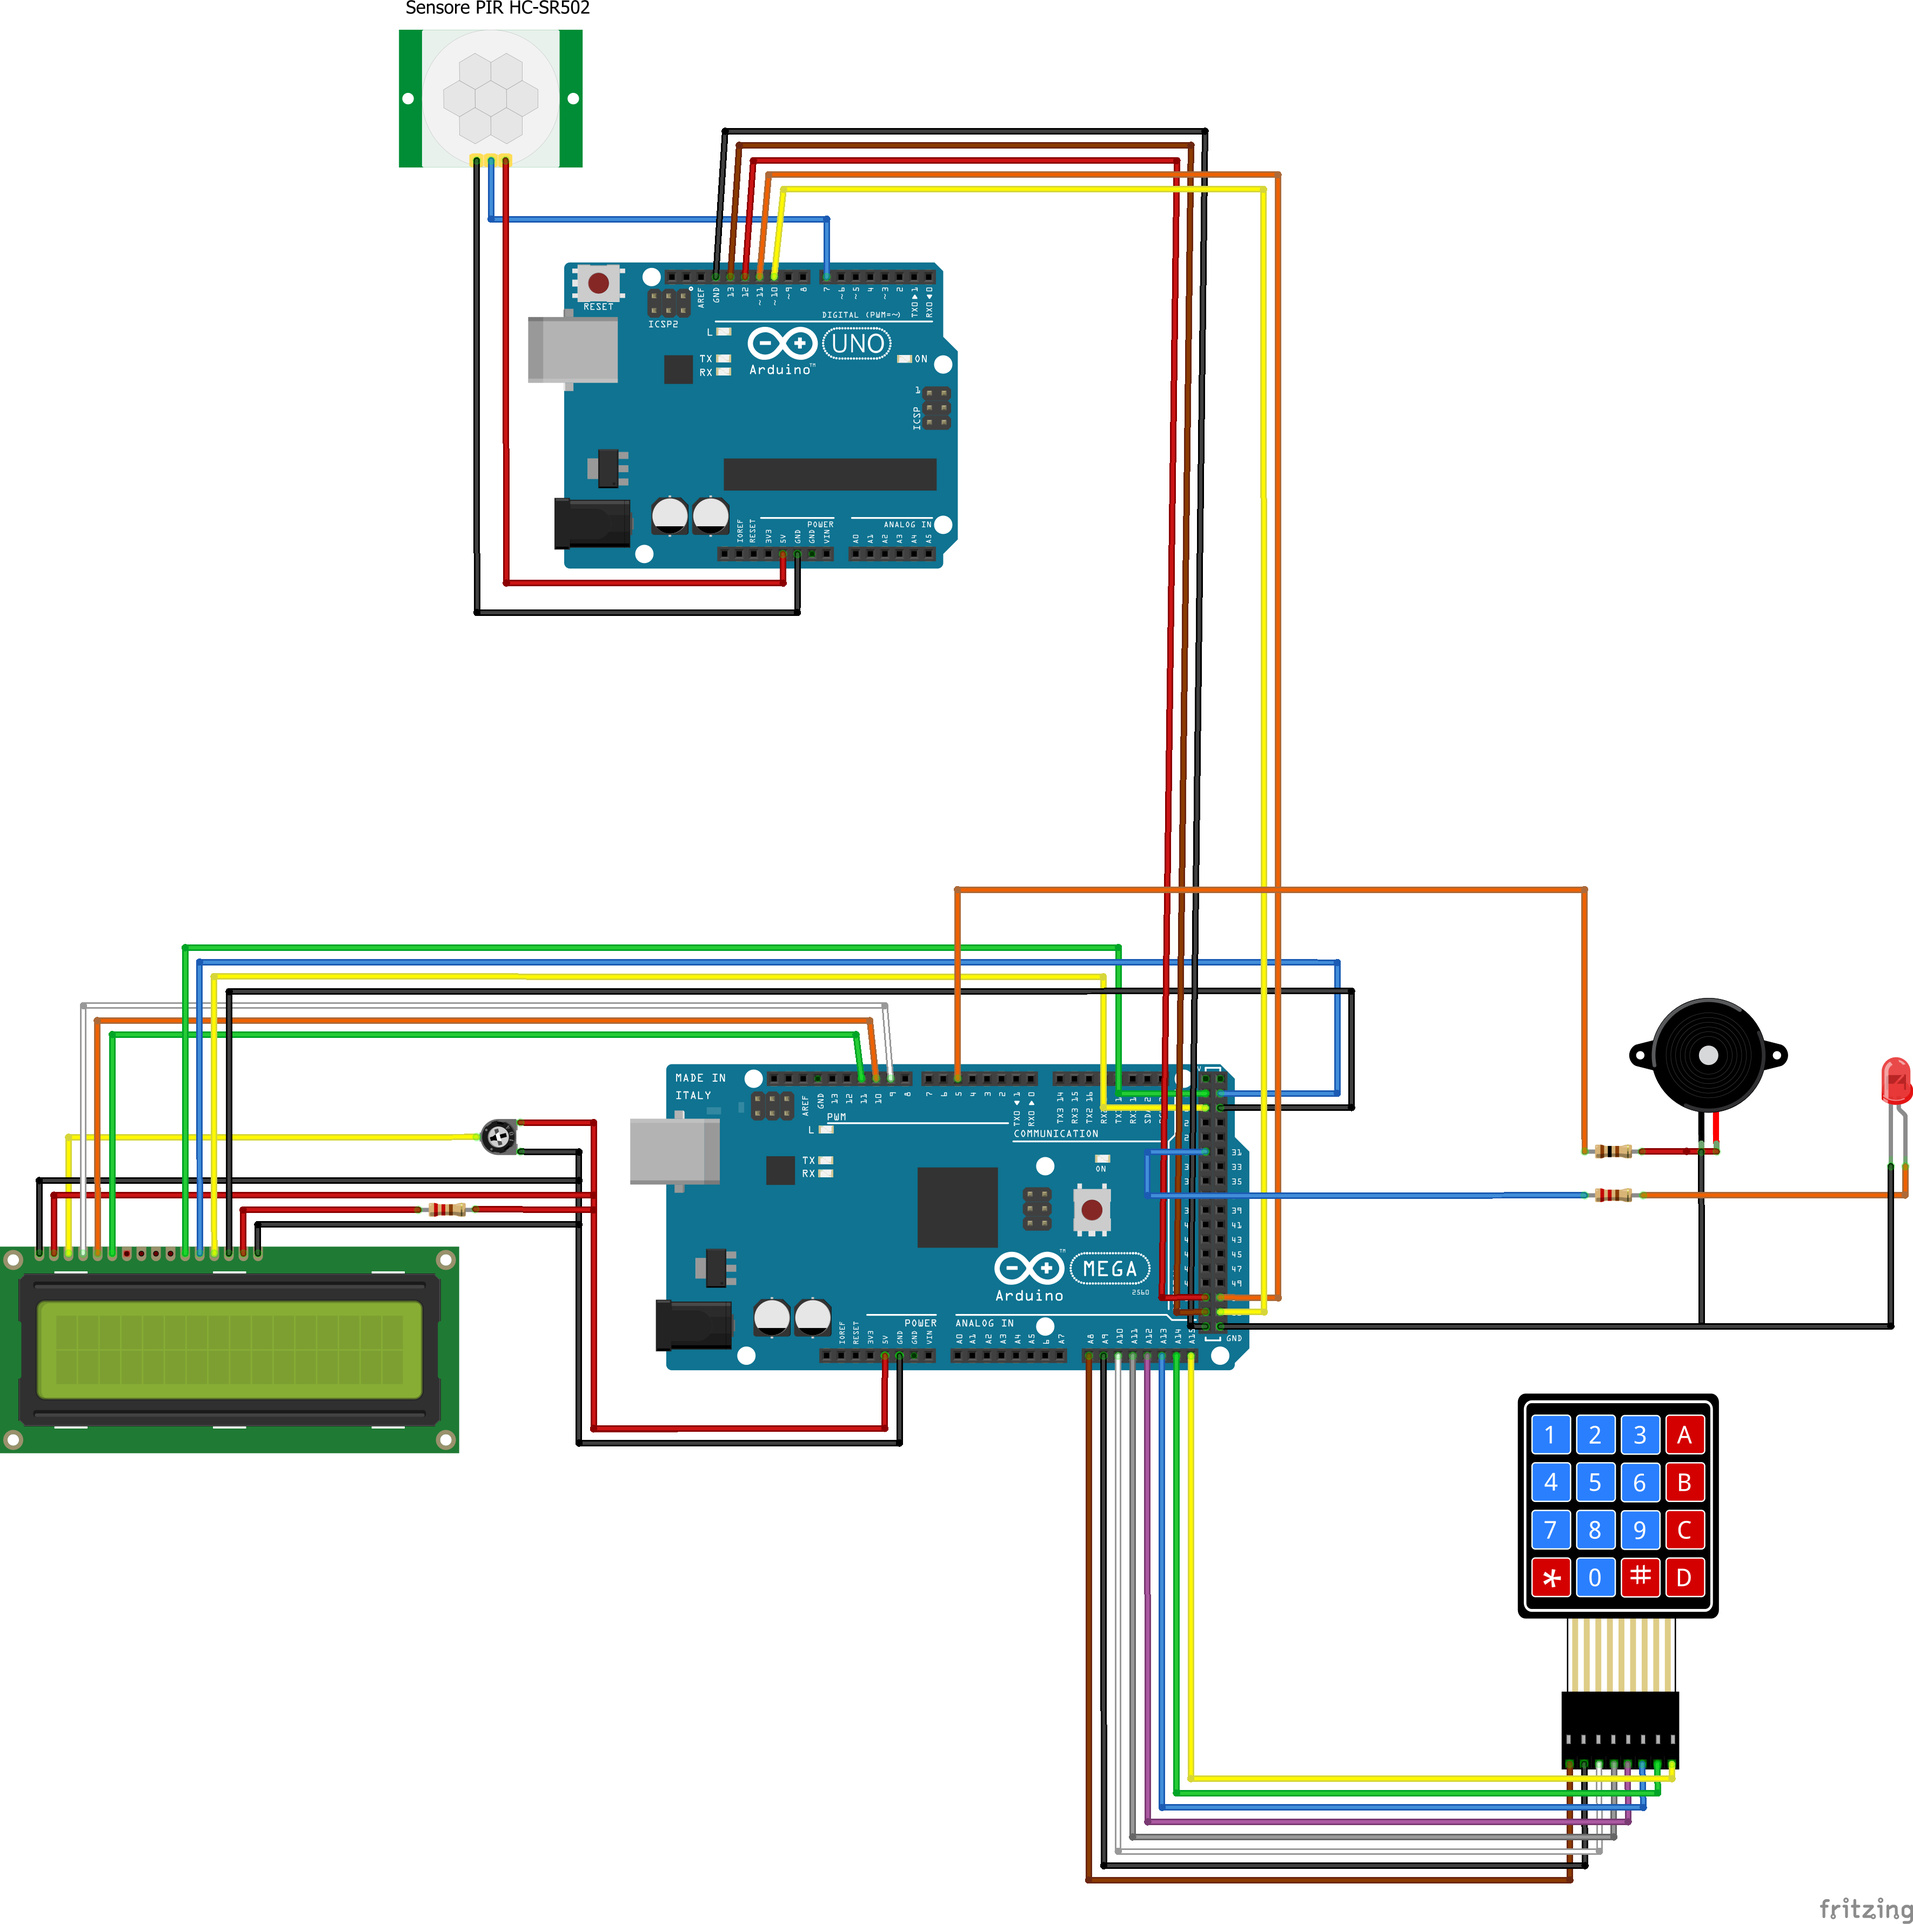
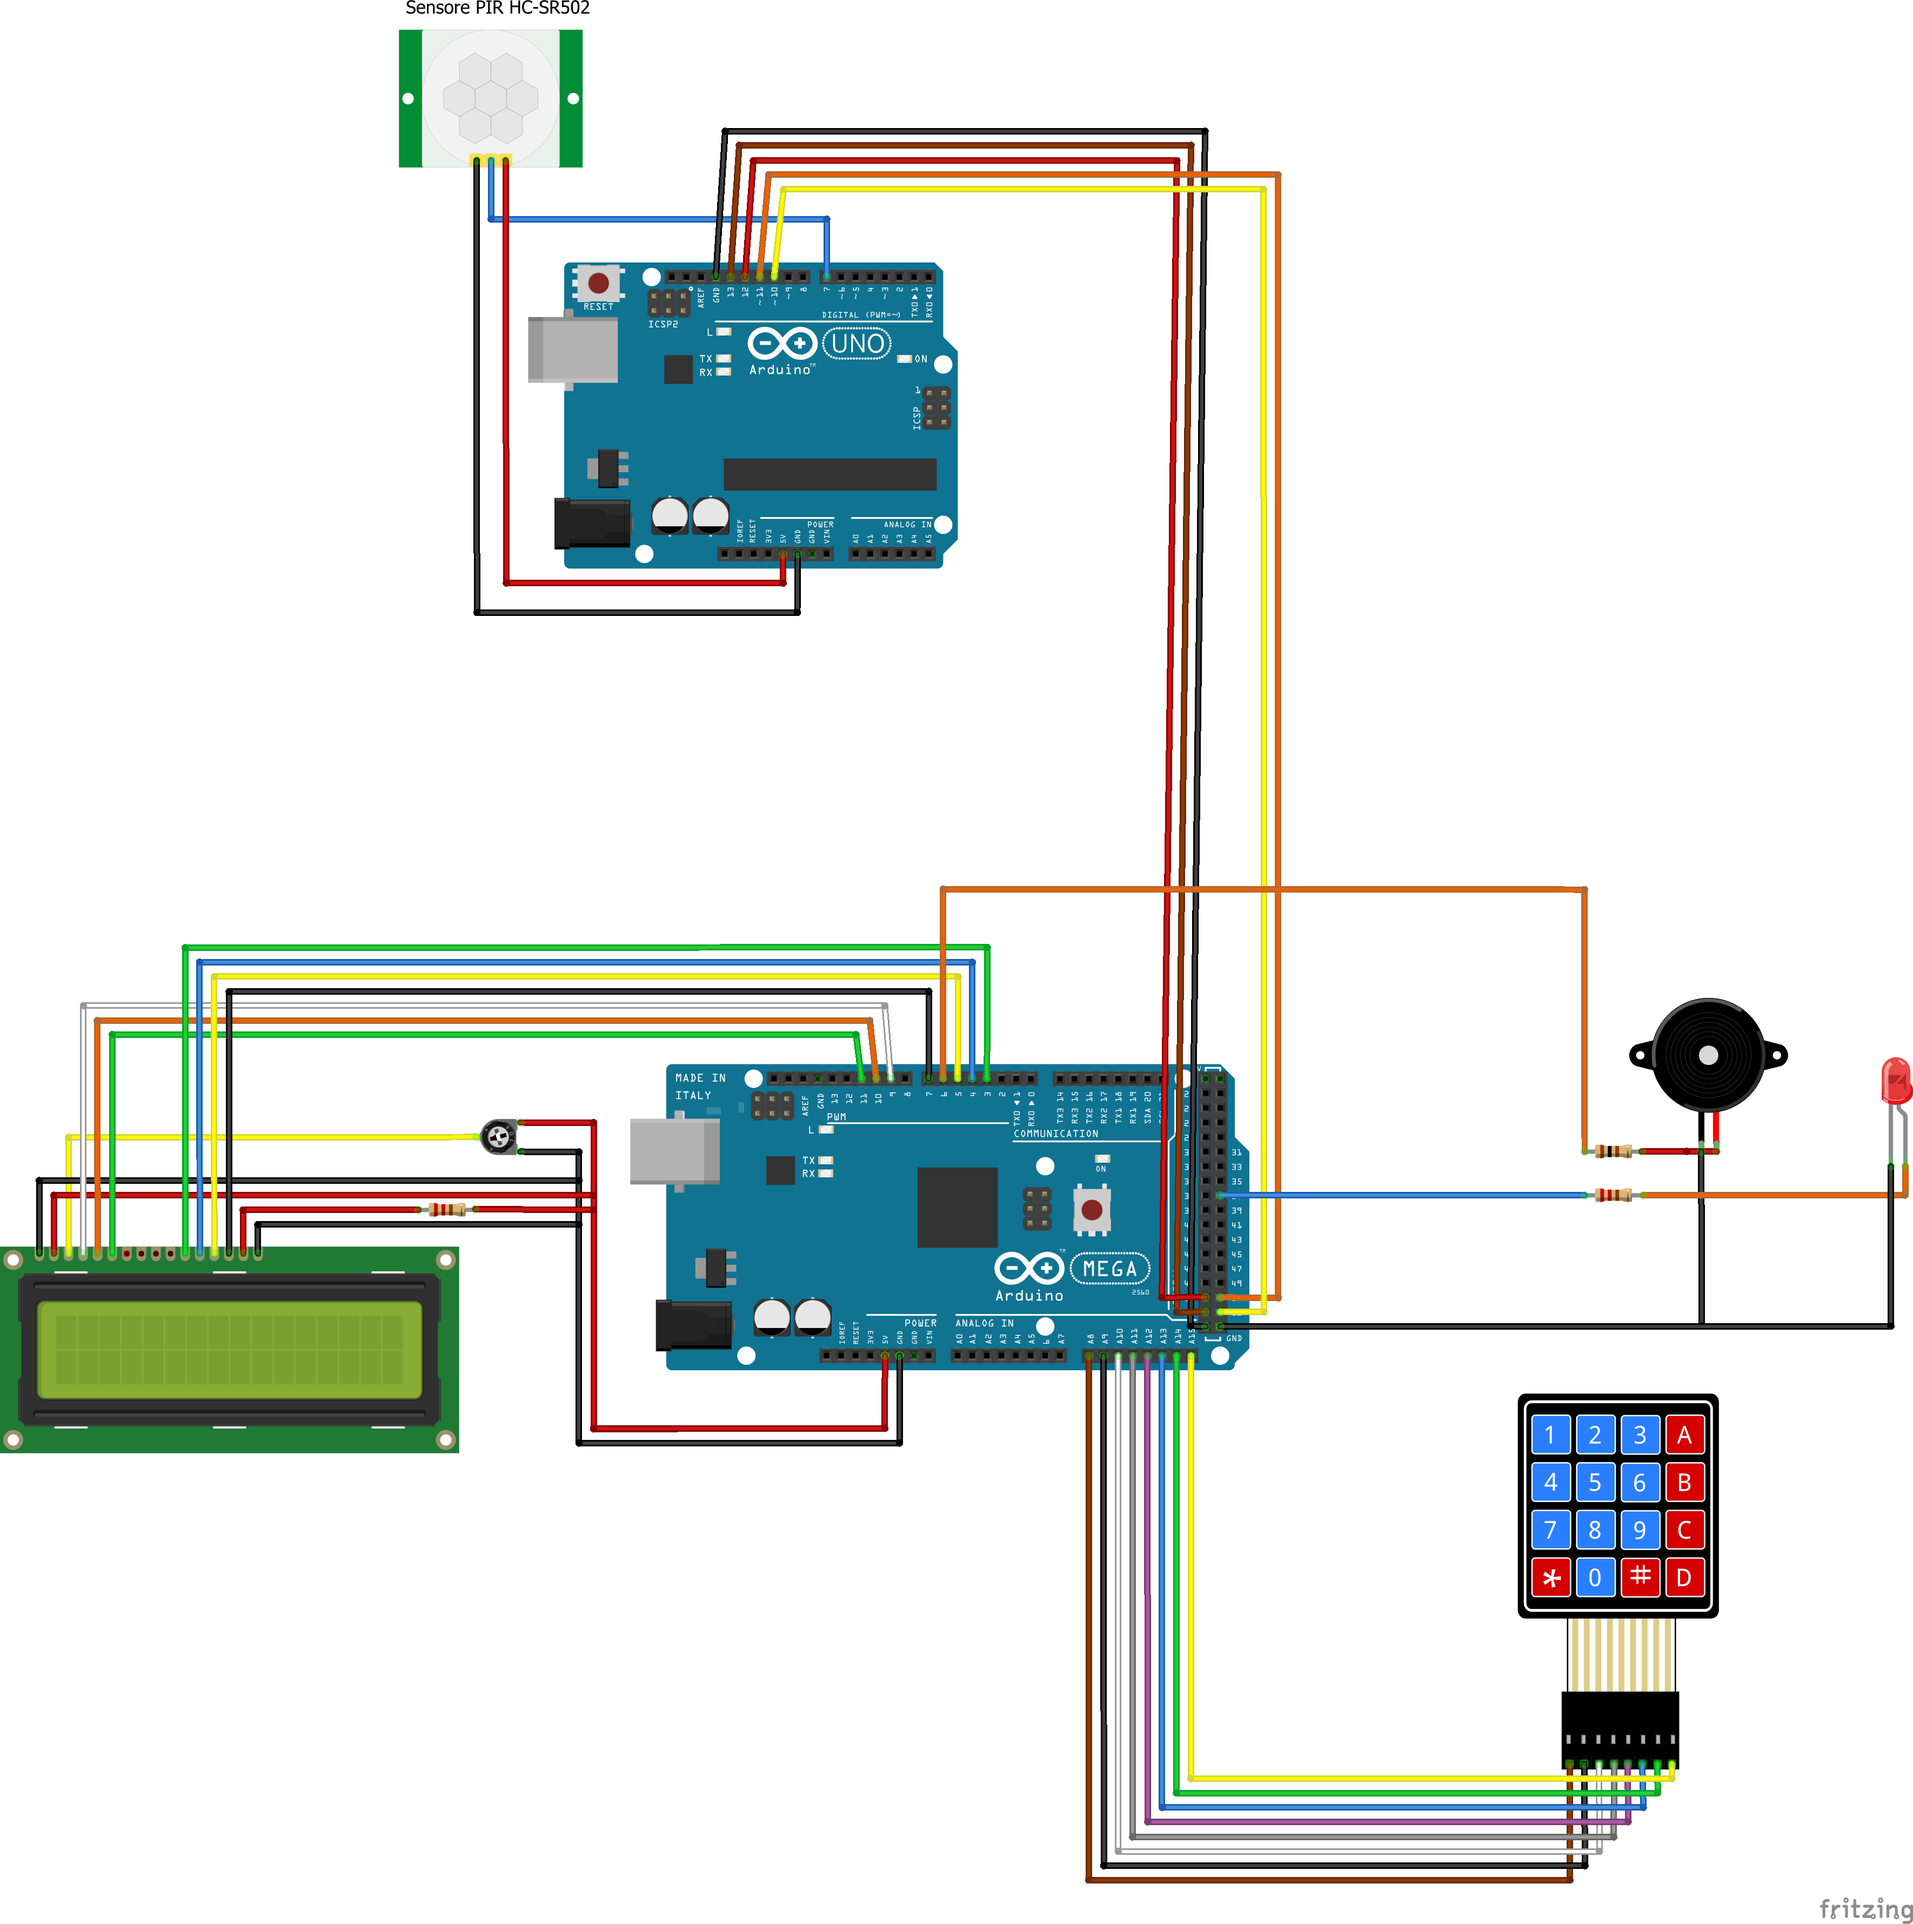
debugged and fixed pins
-updated diagram to repesent present config
-found and marked the line that was causing lcd problems

Changed region(s): [[0.4661, 0.4676, 0.7147, 0.6234]]

diff --git a/harkkaMEGA/harkkaMEGA/main.c b/harkkaMEGA/harkkaMEGA/main.c
@@ -73,13 +73,13 @@ FILE uart_output = FDEV_SETUP_STREAM(USART_Transmit, NULL, _FDEV_SETUP_WRITE);
 FILE uart_input = FDEV_SETUP_STREAM(NULL, USART_Receive, _FDEV_SETUP_READ);
 // ----------------------------------
 
-const char message1_connection_established[] = "SPI OK";
-const char message2_movement_detected[] = "Movement found";
-const char message3_give_password[] = "Type password";
-const char message4_1_password_correct[] = "Password given,";
-const char message4_2_password_correct[] = "alarm reset";
-const char message5_1_password_time_out[] = "Password time-";
-const char message5_2_password_time_out[] = "out error";
+const char message1_connection_established[20] = "SPI OK";
+const char message2_movement_detected[20] = "Movement found";
+const char message3_give_password[20] = "Type password";
+const char message4_1_password_correct[20] = "Password given,";
+const char message4_2_password_correct[20] = "alarm reset";
+const char message5_1_password_time_out[20] = "Password time-";
+const char message5_2_password_time_out[20] = "out error";
 
 int8_t g_state = 0;
 uint16_t memory_address_max = 32; //for EEPROM, NOTE: not actual max, just there is no need for more
@@ -142,7 +142,7 @@ int main(void)
 				*/
 				break;
 		}
-		
+		_delay_ms(40);
 		display_message(0, 0);
     }
 }
@@ -155,6 +155,9 @@ void display_message(int message_number, int password_length)
 	lcd_clrscr();
 	switch (message_number)
 	{
+		case 0:
+			lcd_puts("testi");
+			break;
 		case 1:
 			lcd_puts(message1_connection_established);
 			break;
@@ -279,19 +282,23 @@ char *EEPROM_read()
 
 void init_pwm_counter() {
 	/* Based on exercise 7 solution. 
-	   Setting digital pin 5 as PWM output. OC3A output is on the pin 5.*/
-	DDRE |= (1 << PE3); 
+	   Setting digital pin 6 as PWM output. OC4A output is on the pin 6.*/
+	DDRH |= (1 << PH3); 
 	/* set up the 16-bit timer/counter3, mode 9 */
 	TCCR3B = 0; // reset timer/counter 3
 	TCNT3  = 0;
-	TCCR3A |= (1 << 6); // set compare output mode to toggle
+	
+	/************************************************************************/
+	/* this is causing lcd data some errors resulting in a currupted output */
+	/************************************************************************/
+	//TCCR3A |= (1 << 6); // set compare output mode to toggle
 	
 	// mode 9 phase correct
 	TCCR3A |= (1 << 0); // set register A WGM[1:0] bits
 	TCCR3B |= (1 << 4); // set register B WBM[3:2] bits
 
 	TIMSK3 |= (1 << 1); // enable compare match A interrupt
-	OCR3A = 8000; // Should be about 1000 hz.
+	OCR4A = 8000; // Should be about 1000 hz.
 }
 
 void turn_off_pwm_counter() {

diff --git a/harkkaMEGA/harkkaMEGA/lcd.h b/harkkaMEGA/harkkaMEGA/lcd.h
@@ -131,28 +131,28 @@
 #define LCD_PORT         PORTA        /**< port for the LCD lines   */
 #endif
 #ifndef LCD_DATA0_PORT
-#define LCD_DATA0_PORT   PORTA     /**< port for 4bit data bit 0 */
+#define LCD_DATA0_PORT   PORTE     /**< port for 4bit data bit 0 */
 #endif
 #ifndef LCD_DATA1_PORT
-#define LCD_DATA1_PORT   PORTA     /**< port for 4bit data bit 1 */
+#define LCD_DATA1_PORT   PORTG     /**< port for 4bit data bit 1 */
 #endif
 #ifndef LCD_DATA2_PORT
-#define LCD_DATA2_PORT   PORTA     /**< port for 4bit data bit 2 */
+#define LCD_DATA2_PORT   PORTE     /**< port for 4bit data bit 2 */
 #endif
 #ifndef LCD_DATA3_PORT
-#define LCD_DATA3_PORT   PORTA     /**< port for 4bit data bit 3 */
+#define LCD_DATA3_PORT   PORTH     /**< port for 4bit data bit 3 */
 #endif
 #ifndef LCD_DATA0_PIN
-#define LCD_DATA0_PIN    0            /**< pin for 4bit data bit 0  */
+#define LCD_DATA0_PIN    5            /**< pin for 4bit data bit 0  */
 #endif
 #ifndef LCD_DATA1_PIN
-#define LCD_DATA1_PIN    1            /**< pin for 4bit data bit 1  */
+#define LCD_DATA1_PIN    5            /**< pin for 4bit data bit 1  */
 #endif
 #ifndef LCD_DATA2_PIN
-#define LCD_DATA2_PIN    2            /**< pin for 4bit data bit 2  */
+#define LCD_DATA2_PIN    3            /**< pin for 4bit data bit 2  */
 #endif
 #ifndef LCD_DATA3_PIN
-#define LCD_DATA3_PIN    3            /**< pin for 4bit data bit 3  */
+#define LCD_DATA3_PIN    4            /**< pin for 4bit data bit 3  */
 #endif
 #ifndef LCD_RS_PORT
 #define LCD_RS_PORT      PORTH     /**< port for RS line         */
